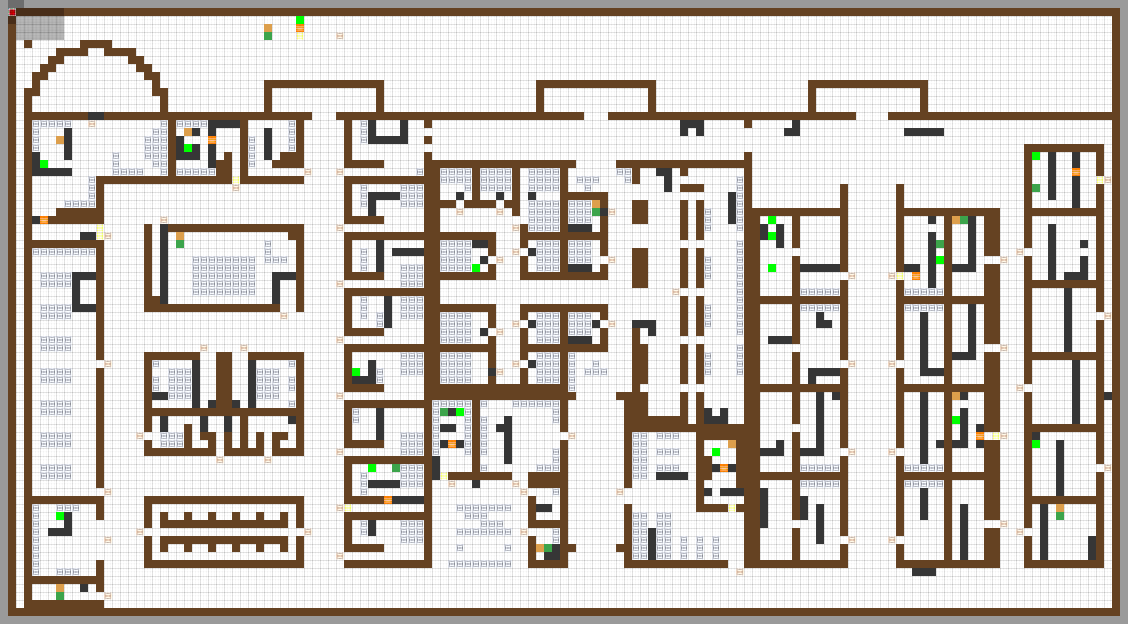
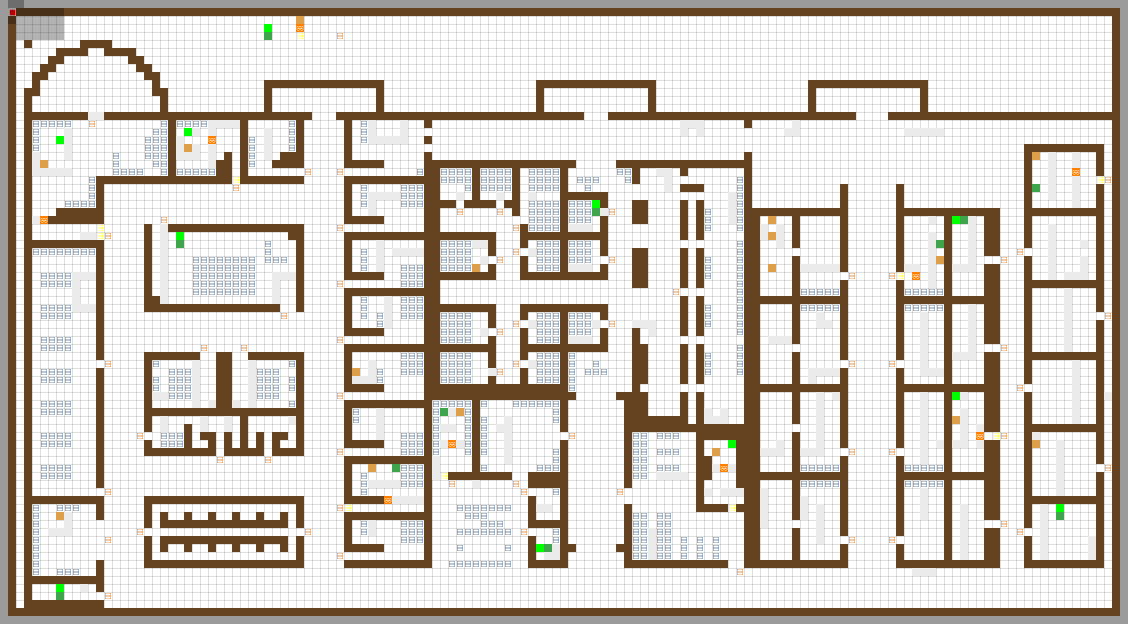
style: lighten rubble to grey3; regen maps and visuals

diff --git a/gym_minigrid/index_mapping.py b/gym_minigrid/index_mapping.py
@@ -259,15 +259,15 @@ minigrid_index_mapping = {
             2   :    'inv_blue',
 
             30  :    'grey2',
-            31  :    'grey0',
+            31  :    'grey3',
 
             4   :    'inv_darkbrown', # 'grey',
             5   :    'yellow2',
 
             80  :    'inv_red',
-            81  :    'inv_indianyellow',
-            82  :    'inv_green2',
-            83  :    'inv_green',
+            81  :    'inv_green',        # A: green
+            82  :    'inv_green2',       # B: light green
+            83  :    'inv_indianyellow', # C: yellow
 
             255 :    'brown',
             11  :    'blue2',
